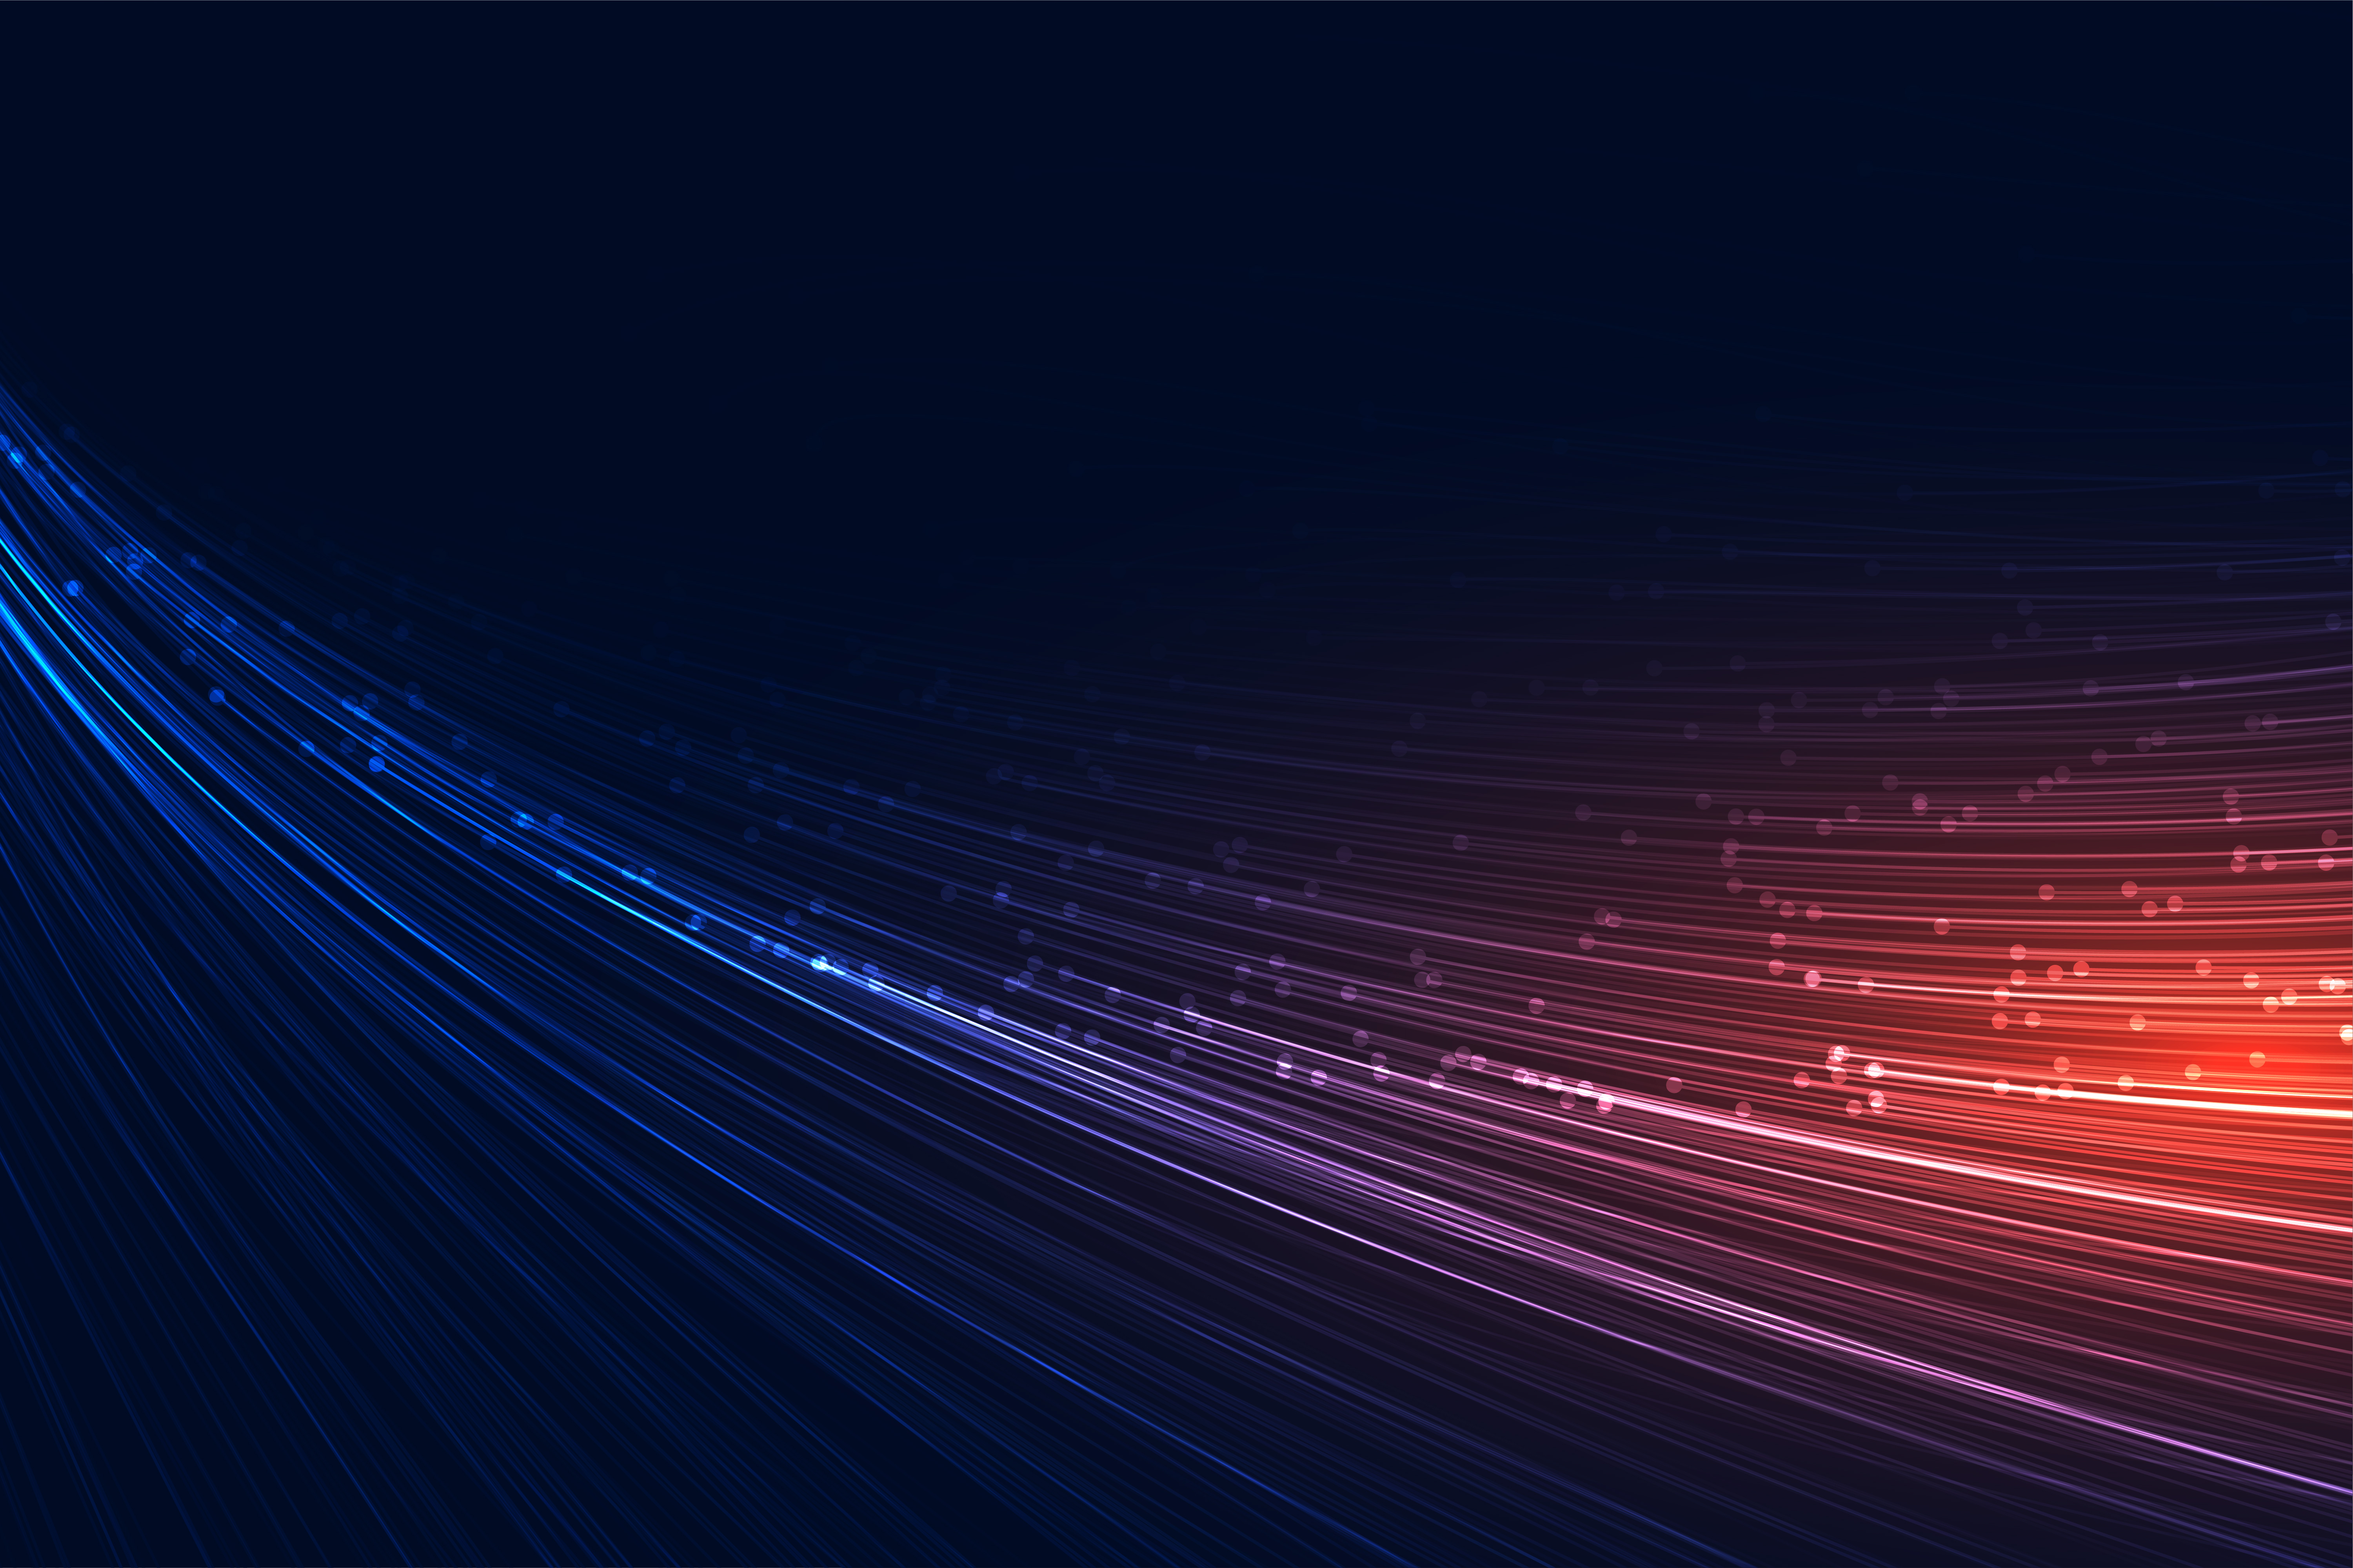
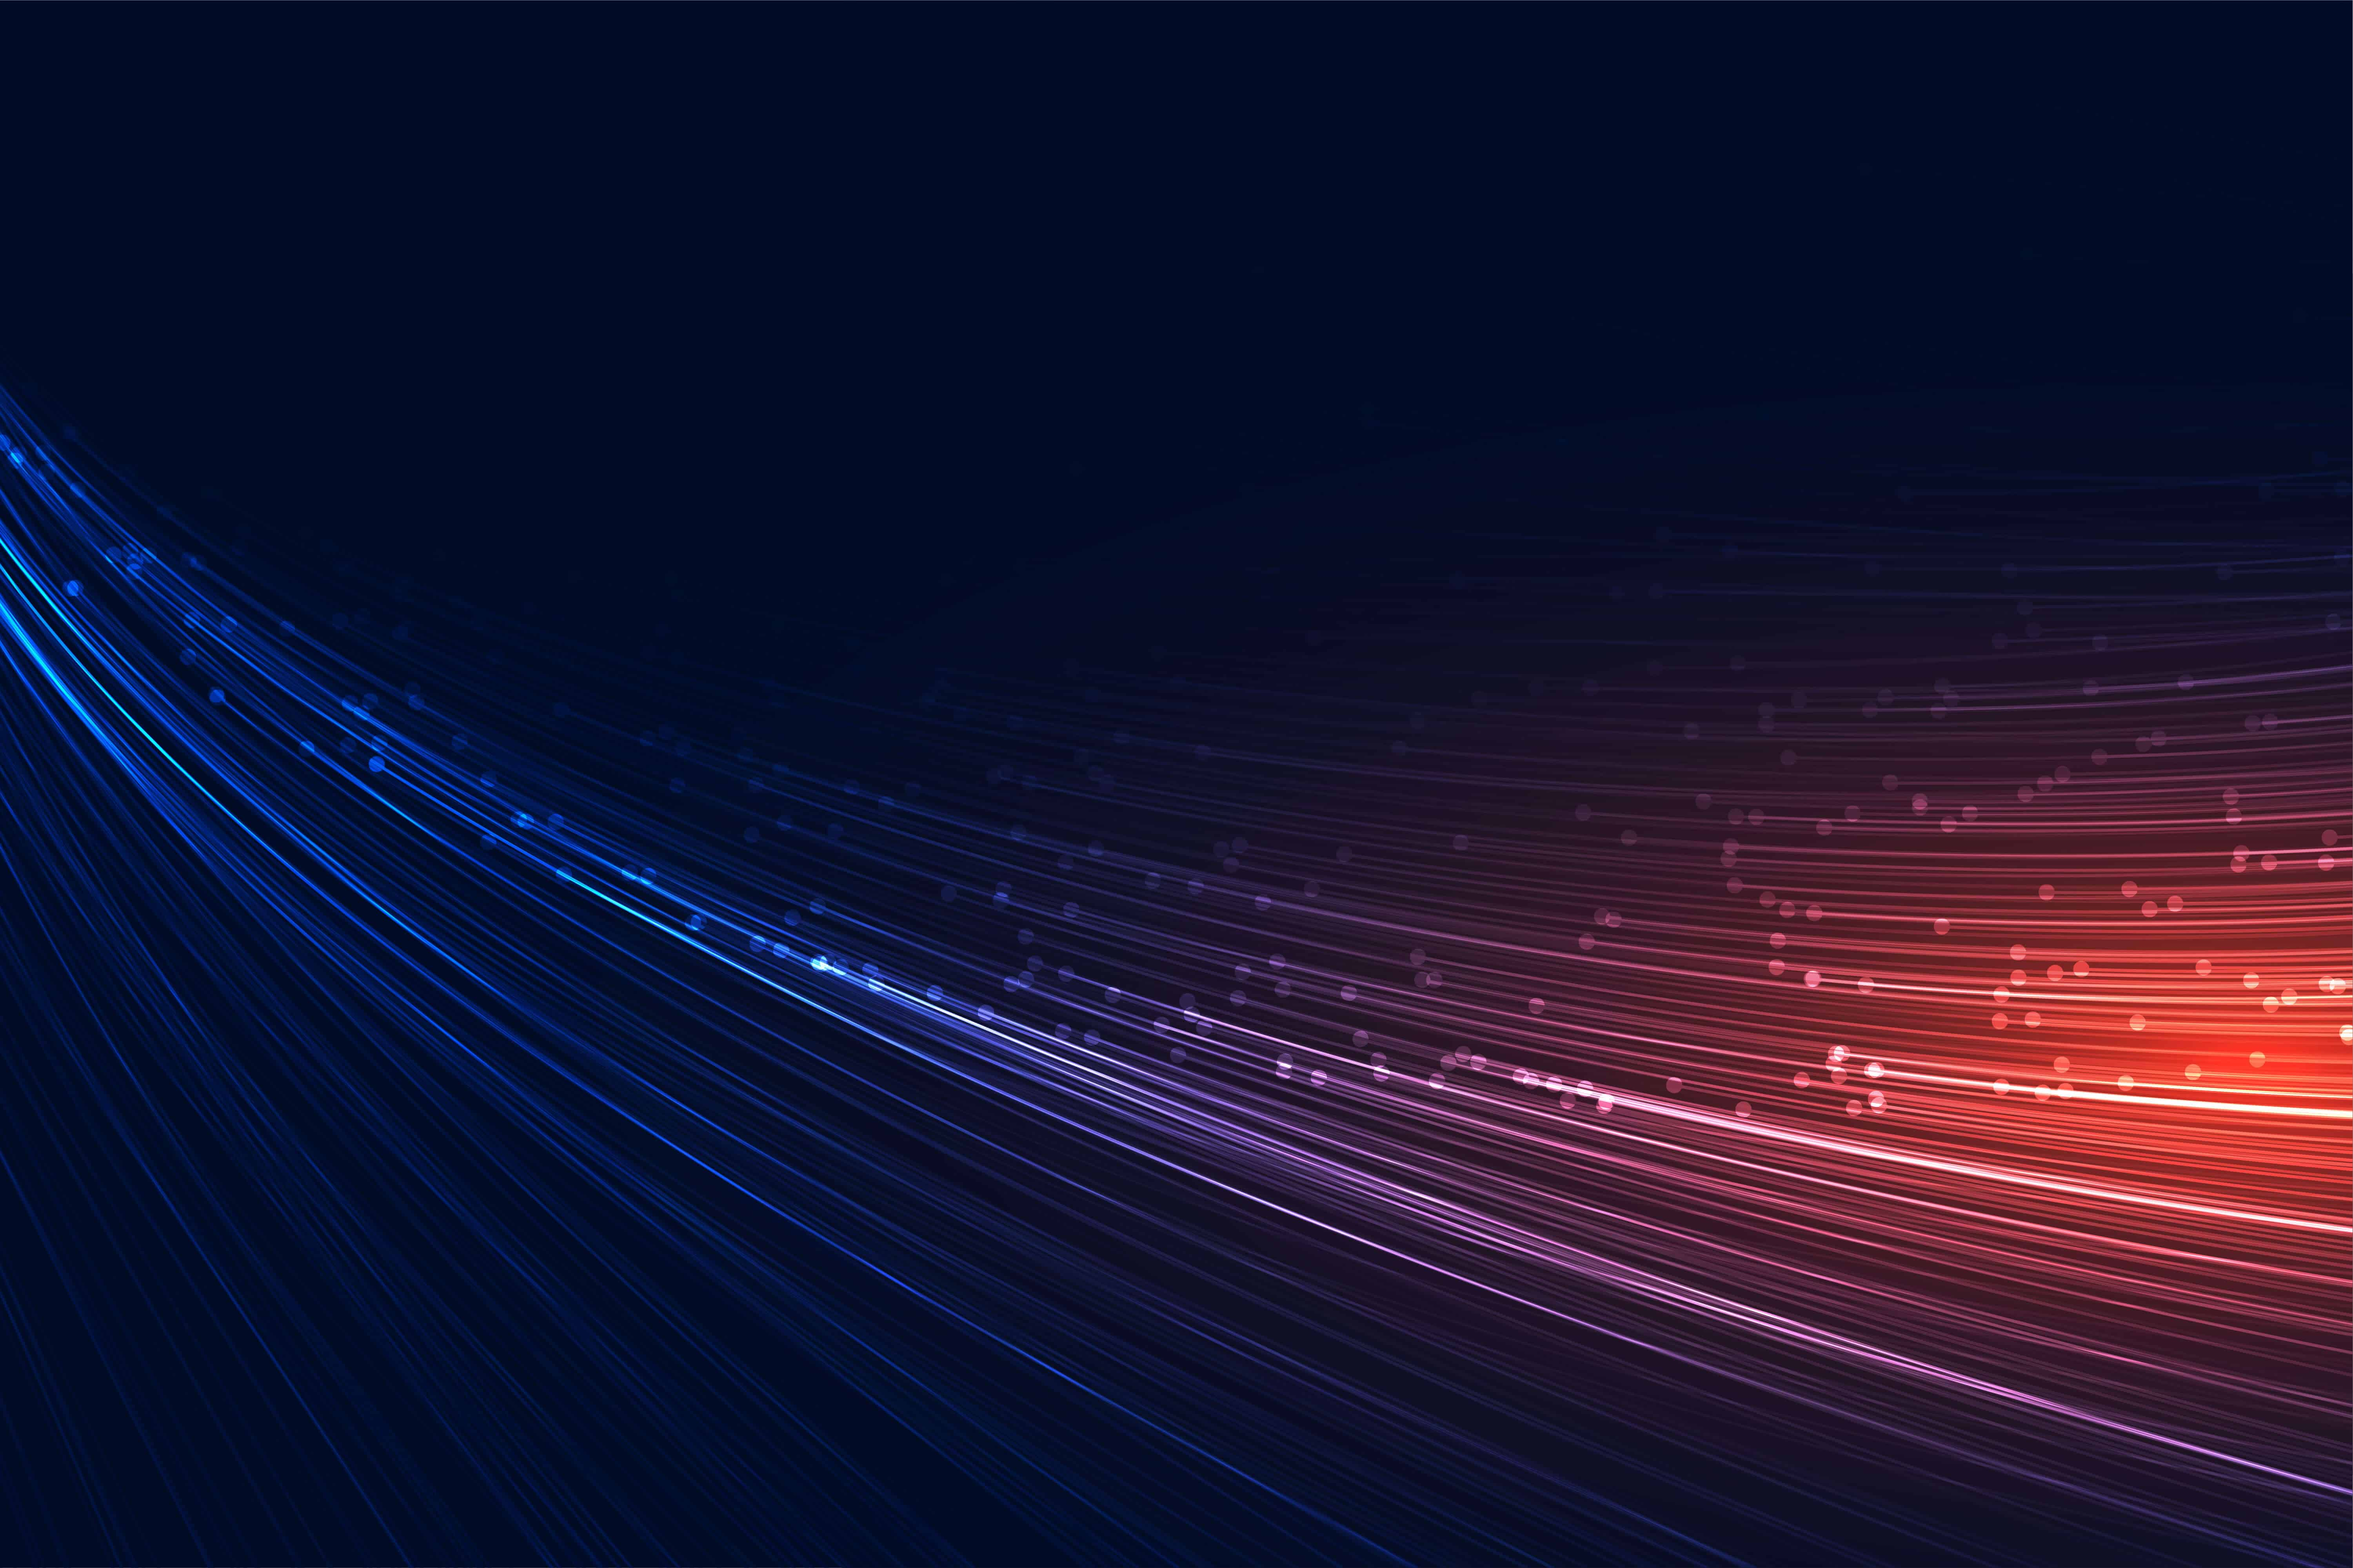
Image resize

diff --git a/js/gallery.js b/js/gallery.js
@@ -37,12 +37,13 @@ $(function(){
     $('body').on('click', '.fullPreview .control', function(){
       var activa = $('.contenedorImgs .imagen.activa');
       var index;
+      // todo: need to fix this
       if($(this).hasClass('av')){
           index = activa.next().index();
         if(index < 0) index = 0;
       }else{
         index = activa.prev().index();
-        if(index < 0) index = $(".contenedorImgs").children().length + 1 ;
+        if(index < 0) index = $('.contenedorImgs').children().length - 1 ;
       }
       $('.fullPreview').addClass('anim');
       setTimeout(()=>{
